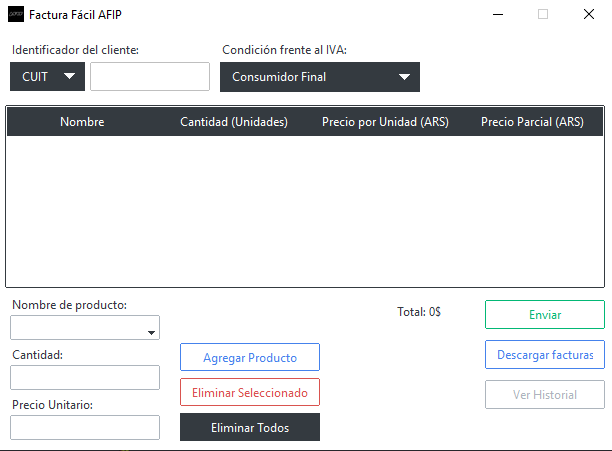
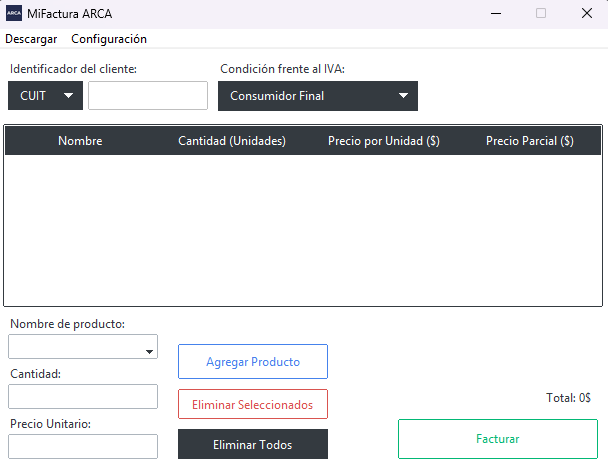
rework: Actualización de la configuración y mejoras en la interfaz de usuario

diff --git a/src/gui/app.py b/src/gui/app.py
@@ -1,22 +1,31 @@
+"""Aplicación principal de MiFactura ARCA."""
+
 import os
+import threading
 from tkinter.messagebox import showwarning, showinfo
 import ttkbootstrap as ttk
 from dotenv import load_dotenv
 from config import ICON_PATH
 from utils.env import update_arca_key
-from utils.helpers import center_window
 
-from gui.history import History
 from models.database import session
 from models.downloads import download
 from models.database import (
     Facturas,
 )
+from services.afip_client import realizar_operacion
 
 CONDITION_OPTIONS = [
     "Consumidor Final",
     "Iva Responsable Inscripto",
     "Iva Sujeto Excento",
+]
+
+PREAJUSTES_PRODUCTOS = [
+    "Fotos Carnet",
+    "Revelado de Fotos",
+    "Servicio Laser",
+    "Estampados",
 ]
 
 
@@ -38,9 +47,17 @@ class App:
 
         # Configuracion de la pestaña root
         self.root.title("MiFactura ARCA")
+
+        width, height = 612, 440
+
+        screen_width = self.root.winfo_screenwidth()
+        screen_height = self.root.winfo_screenheight()
+        x = int((screen_width / 2) - (width / 2))
+        y = int((screen_height / 2) - (height / 2))
+        self.root.geometry(f"{width}x{height}+{x}+{y}")
         self.root.resizable(False, False)
+
         self.root.iconbitmap(ICON_PATH)
-        self.root.geometry("612x420")
 
         menu_bar = ttk.Menu(self.root)
         self.root.config(menu=menu_bar)
@@ -106,8 +123,8 @@ class App:
         )
         self.tree.heading("name", text="Nombre")
         self.tree.heading("quantity", text="Cantidad (Unidades)")
-        self.tree.heading("unique_price", text="Precio por Unidad (ARS)")
-        self.tree.heading("total_price", text="Precio Parcial (ARS)")
+        self.tree.heading("unique_price", text="Precio por Unidad ($)")
+        self.tree.heading("total_price", text="Precio Parcial ($)")
 
         self.tree.column("name", width=150)
         self.tree.column("quantity", anchor=ttk.E, width=150)
@@ -116,12 +133,7 @@ class App:
         self.tree.place(x=5, y=75, width=600)
 
         # Crear campo y opciones para el OptionMenu
-        self.common_products = (
-            "Fotos Carnet",
-            "Revelado de Fotos",
-            "Servicio Laser",
-            "Estampados",
-        )
+        self.common_products = PREAJUSTES_PRODUCTOS
 
         ttk.Label(r, text="Nombre de producto:").place(x=10, y=265)
         self.name = ttk.Combobox(r, bootstyle="secondary", values=self.common_products)
@@ -142,8 +154,7 @@ class App:
             text="Agregar Producto",
             command=self.add_row,
         )
-
-        self.add_row_button.place(x=180, y=313, width=140, height=28)
+        self.add_row_button.place(x=180, y=295, width=150, height=35)
 
         self.remove_row_button = ttk.Button(
             r,
@@ -151,33 +162,26 @@ class App:
             text="Eliminar Seleccionados",
             command=self.delete_rows,
         )
-        self.remove_row_button.place(x=180, y=348, width=140, height=28)
+        self.remove_row_button.place(x=180, y=340, width=150, height=30)
 
         self.remove_all_button = ttk.Button(
             r, bootstyle="dark", text="Eliminar Todos", command=self.delete_all_rows
         )
-        self.remove_all_button.place(x=180, y=383, width=140, height=28)
+        self.remove_all_button.place(x=180, y=380, width=150, height=30)
 
         self.text_total = ttk.Label(r, bootstyle="dark", text="Total: 0$")
-        self.text_total.place(x=395, y=272)
+        self.text_total.place(x=595, y=348, anchor="e")
 
         # Botón para ejecutar las funciones de Selenium
         self.send_button = ttk.Button(
             r, bootstyle="success-outline", text="Facturar", command=self.send
         )
-        self.send_button.place(x=485, y=270, width=120)
-
-        self.history_button = ttk.Button(
-            r, bootstyle="dark-outline", text="Ver Historial", command=self.history
-        )
-        self.history_button.place(x=485, y=310, width=120)
+        self.send_button.place(x=400, y=370, width=200, height=40)
 
         self.error_label = ttk.Label(r, text="", bootstyle="danger")
         self.error_label.place(x=330, y=390)
 
         self.raw_client_id = ""
-
-        center_window(self.root)
 
     def show_update_window(self):
         """
@@ -208,7 +212,7 @@ class App:
 
         ttk.Label(update_window, text="Contraseña actual: ").place(x=15, y=10)
         current_key = os.getenv("ARCA_KEY")
-        ttk.Label(update_window, text=current_key, bootstyle="primary").place(
+        ttk.Label(update_window, text=current_key, bootstyle="secondary").place(
             x=130, y=10
         )
 
@@ -216,9 +220,9 @@ class App:
         entry = ttk.Entry(update_window, bootstyle="dark")
         entry.place(x=130, y=35)
 
-        ttk.Button(update_window, text="Actualizar", command=submit).place(
-            x=163, y=75, width=100
-        )
+        ttk.Button(
+            update_window, text="Actualizar", command=submit, bootstyle="dark"
+        ).place(x=163, y=75, width=100)
 
     def obtener_valores_columna(self):
         """
@@ -249,7 +253,7 @@ class App:
         resultado = 0
         for valor in valores:
             resultado += float(valor)
-        self.text_total.config(text=f"Total: {resultado}$")
+        self.text_total.config(text=f"Total: {resultado:,.2f}$")
 
     def format_client_id(self, *args):
         """
@@ -481,10 +485,6 @@ class App:
         self.error_label.config(text="")
         self.text_total.config(text="Total: 0$")
 
-    def history(self):
-        """_summary_"""
-        History(self.root)
-
     def send(self):
         """
         Envía los datos de facturación a la página de ARCA y guarda la factura en la
@@ -511,15 +511,15 @@ class App:
         )
 
         if client_option != -1 and option != -1 and client_id != -1 and products:
+
+            thread = threading.Thread(
+                target=realizar_operacion,
+                args=(client_option, client_id, option, products),
+            )
+            thread.start()
+
             session.add(factura)
             session.commit()
-
-            in_thread(  # pylint: disable=undefined-variable
-                client_option=client_option,
-                client_id=client_id,
-                option=option,
-                products=products,
-            )
+            session.close()
 
             self.clear_all()
-            session.close()

diff --git a/src/services/afip_client.py b/src/services/afip_client.py
@@ -20,6 +20,7 @@ from selenium.common.exceptions import TimeoutException
 from webdriver_manager.chrome import ChromeDriverManager
 
 from gui.progress import ProgressWindow
+from config import DEBUG
 
 
 # Configuración de la carpeta de descargas
@@ -51,7 +52,8 @@ def start_chrome():
     }
 
     options = webdriver.ChromeOptions()
-    options.add_argument("--headless")
+    if not DEBUG:
+        options.add_argument("--headless")
     options.add_experimental_option("excludeSwitches", ["enable-logging"])
     options.add_argument("--log-level=3")
     options.add_argument("--disable-gpu")
@@ -196,7 +198,7 @@ def esperar_descarga_completa(folder, timeout=20):
     return False
 
 
-def realizar_operacion(driver, client_option, client_id, option, products, debug=False):
+def realizar_operacion(client_option, client_id, option, products):
     """
     Realiza una operación de facturación en la página de ARCA.
 
@@ -208,6 +210,9 @@ def realizar_operacion(driver, client_option, client_id, option, products, debug
         products (list): Lista de productos.
         debug (bool): Si es True, no confirma ni descarga la factura.
     """
+
+    driver = start_chrome()
+
     progress = ProgressWindow(None, "Facturación")
 
     try:
@@ -274,7 +279,7 @@ def realizar_operacion(driver, client_option, client_id, option, products, debug
 
         print("[INFO] Datos ingresados correctamente.")
 
-        if not debug:
+        if not DEBUG:
             WebDriverWait(driver, 10).until(
                 EC.element_to_be_clickable(
                     (
@@ -304,6 +309,7 @@ def realizar_operacion(driver, client_option, client_id, option, products, debug
             esperar_descarga_completa(download_path)
 
             progress.set_progress(97)
+            print("[INFO] Factura confirmada y descargada correctamente.")
         else:
             print("[DEBUG] Simulación activa: no se confirmó ni descargó la factura.")
 
@@ -314,4 +320,3 @@ def realizar_operacion(driver, client_option, client_id, option, products, debug
         progress.set_progress(100)
         driver.quit()
         progress.stop_progress()
-        print("Operación completada. El navegador se ha cerrado.")

diff --git a/src/gui/progress.py b/src/gui/progress.py
@@ -1,8 +1,7 @@
 from tkinter import ttk
 from tkinter import HORIZONTAL, Toplevel
 
-# Define the path to your icon file here
-ICON_PATH = "static/arca.ico"
+from config import ICON_PATH
 
 
 class ProgressWindow:
@@ -36,7 +35,18 @@ class ProgressWindow:
             text (str): El texto que se mostrará en la ventana de progreso.
         """
         self.progress_window = Toplevel(self.root)
-        self.progress_window.geometry("280x60")
+
+        width, height = 280, 60
+
+        screen_width = self.progress_window.winfo_screenwidth()
+        screen_height = self.progress_window.winfo_screenheight()
+        x = int((screen_width / 2) - (width / 2))
+        y = int((screen_height / 2) - (height / 2))
+
+        self.progress_window.geometry(f"{width}x{height}+{x}+{y}")
+
+        self.progress_window.resizable(False, False)
+
         self.progress_window.title("Progreso de Factura")
         self.progress_window.iconbitmap(self.icon_path)
 

diff --git a/src/config.py b/src/config.py
@@ -1,3 +1,5 @@
+"""Configuración inicial de la aplicación usando tkinter."""
+
 import sys
 from pathlib import Path
 import os
@@ -14,15 +16,16 @@ def resource_path(relative_path):
     return base_path / relative_path
 
 
+DEBUG = True  # Cambiar a True para modo debug
 ICON_PATH = resource_path("static/arca.ico")
 
 
 def initialize_env_gui(root):
+    """Inicializa la ventana de configuración inicial si no existe el archivo .env"""
     app_dir = Path(__file__).resolve().parent.parent
     env_path = app_dir / ".env"
 
     if env_path.exists():
-        print("Archivo .env ya existente. Saltando configuración inicial.")
         return
 
     # --- Ventana principal ---

diff --git a/src/main.py b/src/main.py
@@ -12,9 +12,7 @@ from config import initialize_env_gui
 
 from models.database import inicializar_si_necesario, session
 
-
 inicializar_si_necesario()
-
 load_dotenv()
 
 

diff --git a/src/models/downloads.py b/src/models/downloads.py
@@ -1,3 +1,4 @@
+import threading
 import sqlite3
 import json
 from tkinter import Tk
